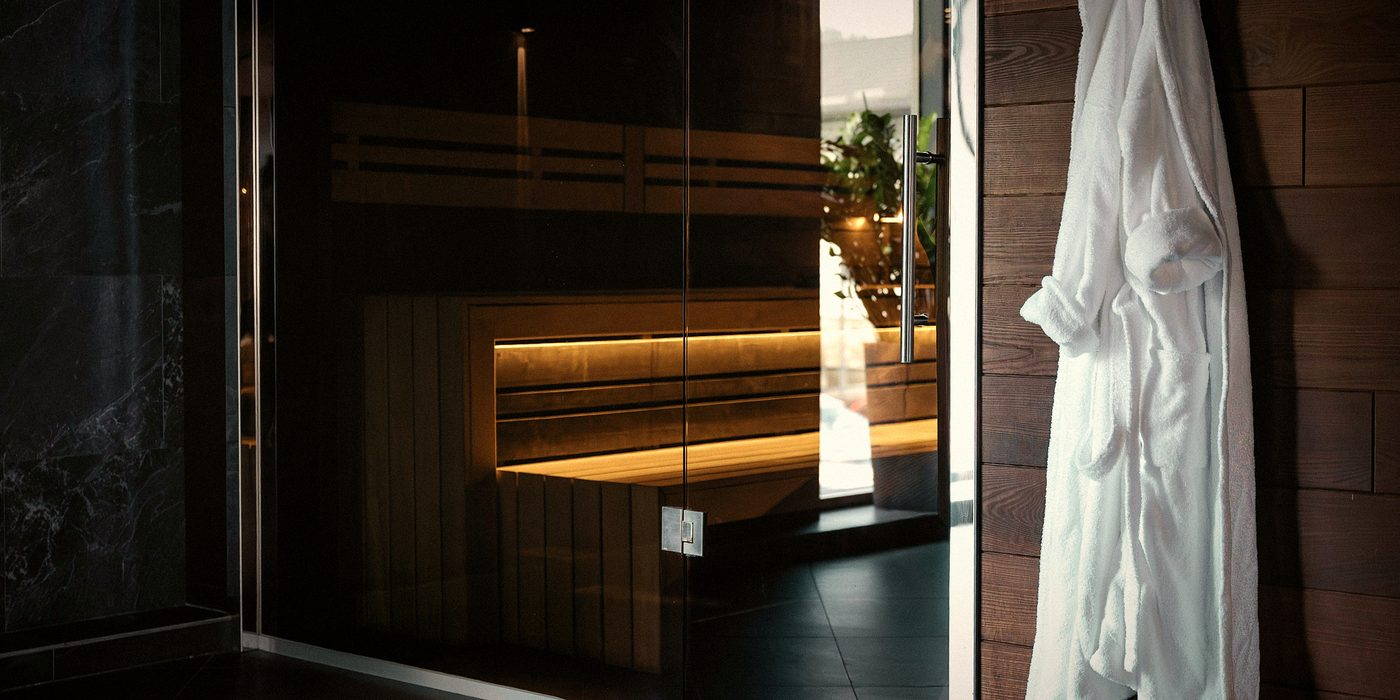
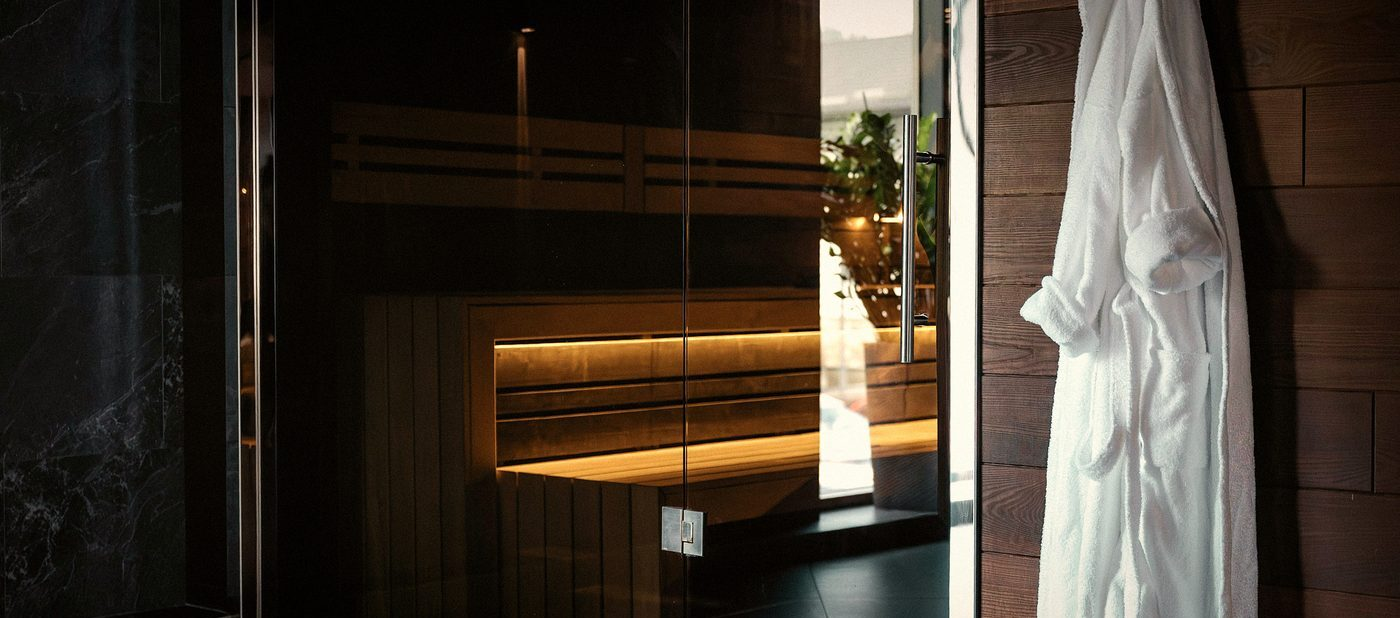
Crop intro-sauna image below door hinge (remove floor), raise box height 4:4.4 to 4:3.6

diff --git a/app/globals.css b/app/globals.css
@@ -2283,7 +2283,7 @@ img { max-width: 100%; height: auto; display: block; }
 .intro-link:hover { color: var(--ink-gold); text-decoration: none; }
 
 .intro-image { position: relative; }
-.intro-image img { width: 100%; aspect-ratio: 4 / 4.4; object-fit: cover; }
+.intro-image img { width: 100%; aspect-ratio: 4 / 3.6; object-fit: cover; object-position: center top; }
 .intro-image-accent {
   position: absolute; bottom: -20px; right: -20px;
   width: 140px; height: 140px; border: 1px solid var(--gold); z-index: -1;
